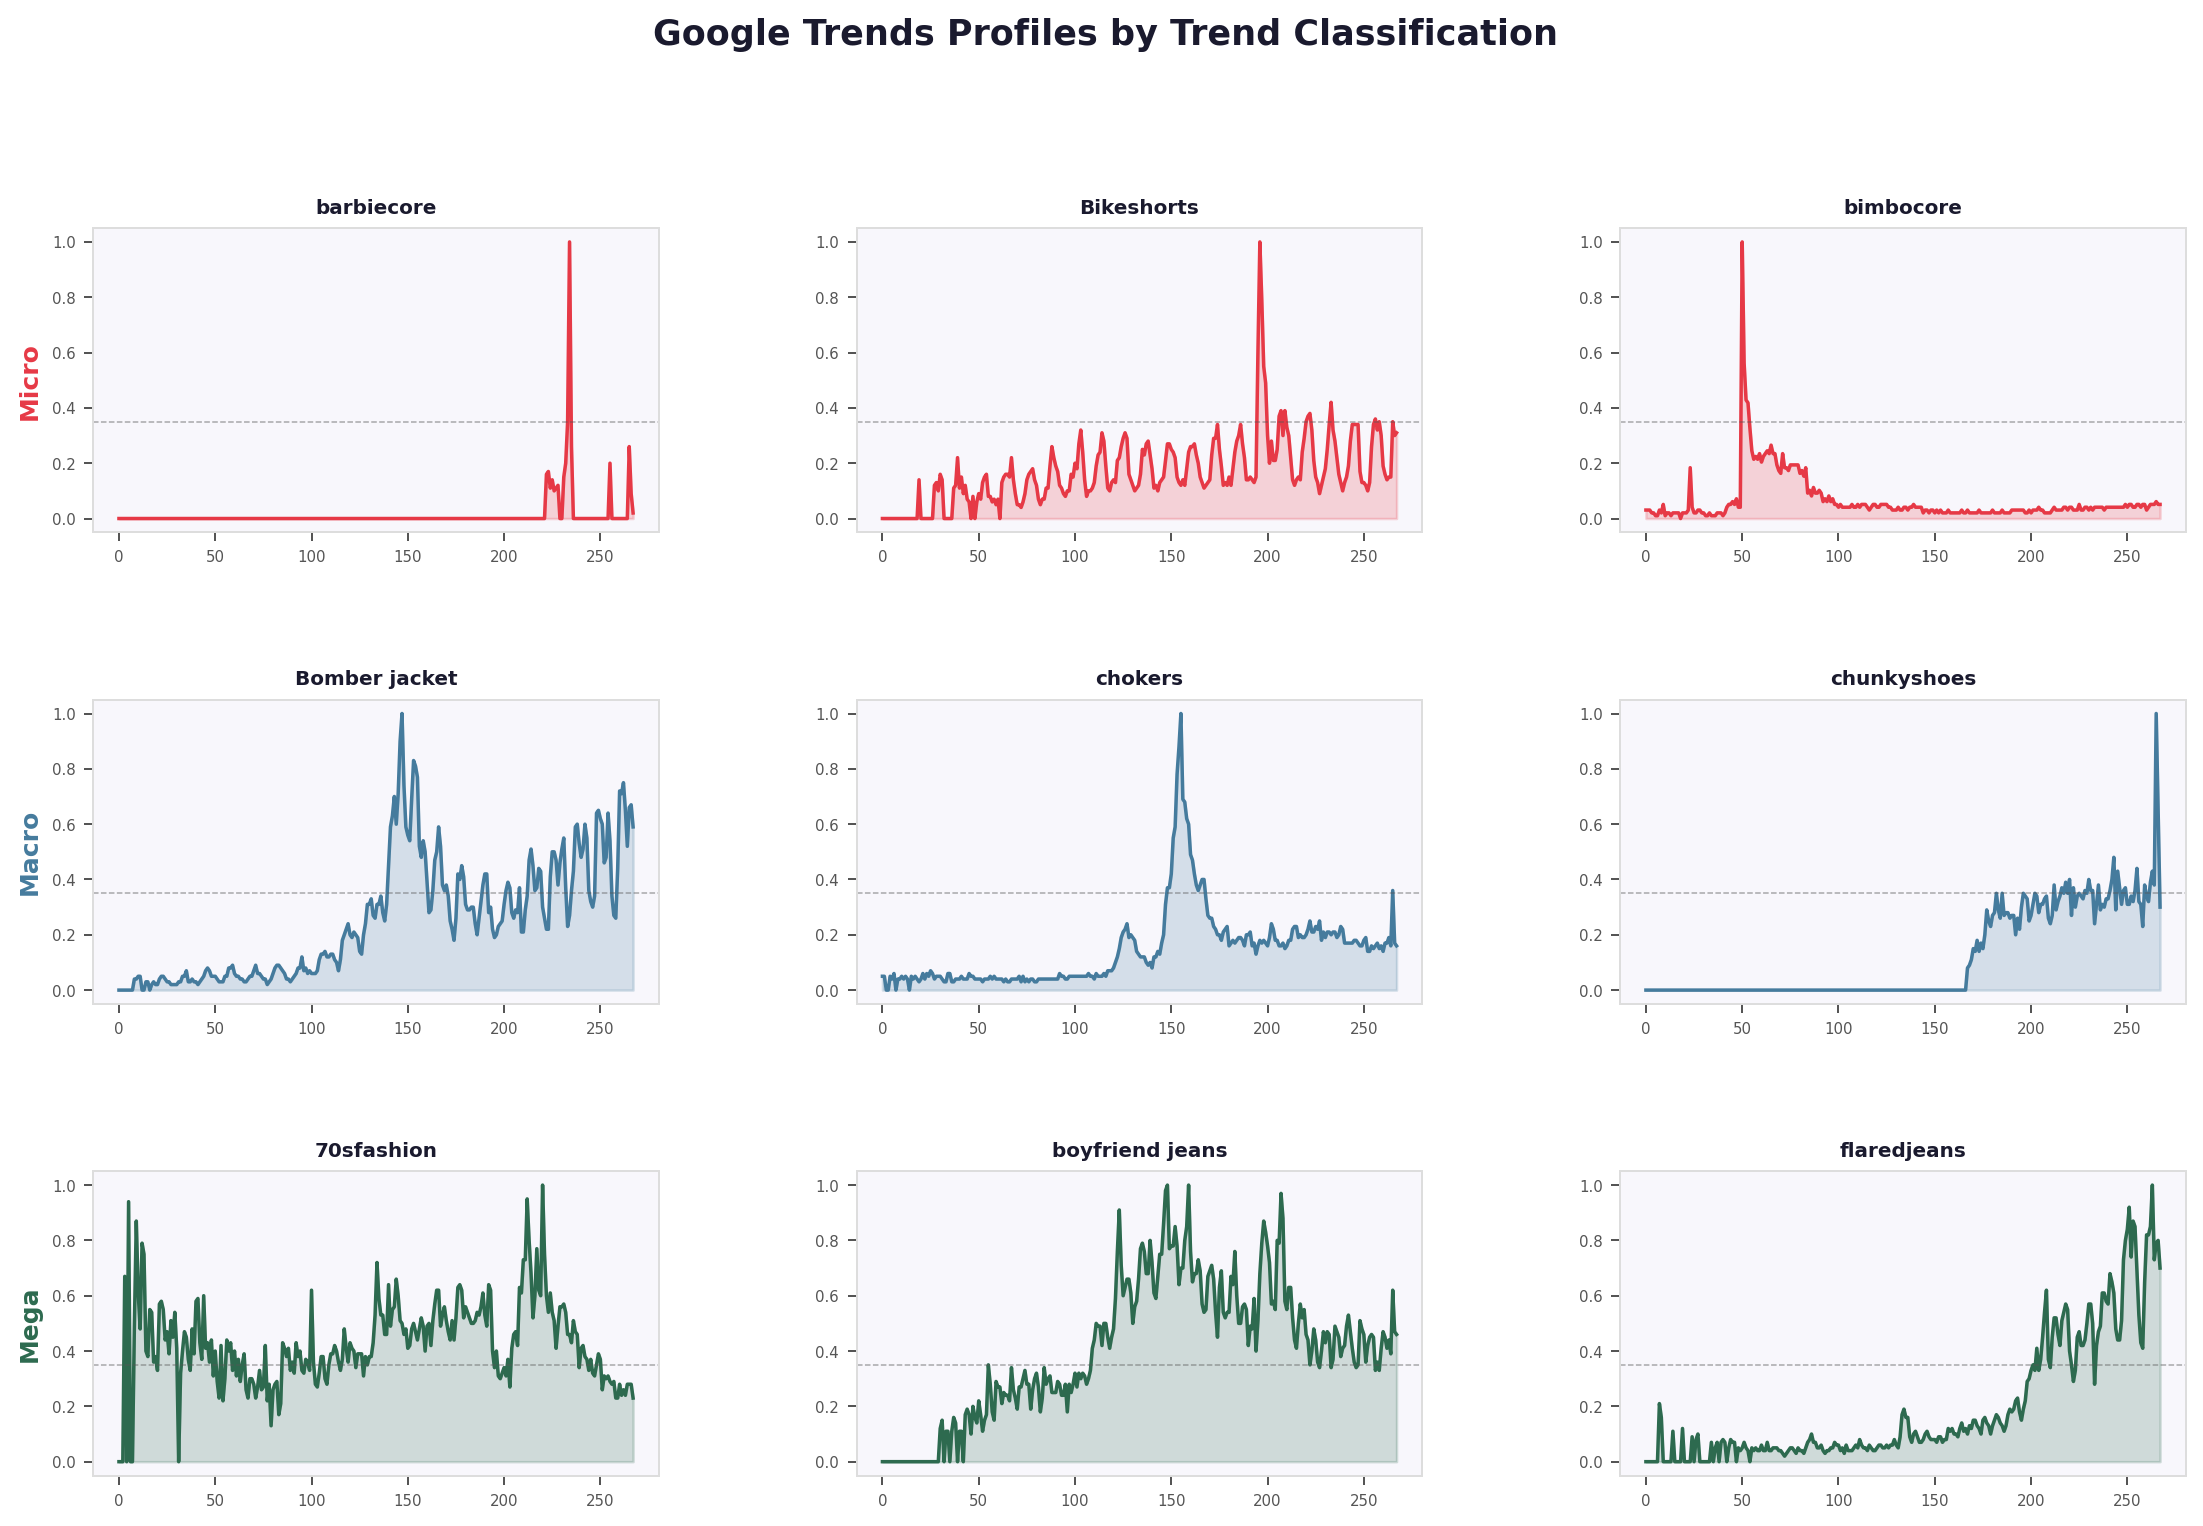
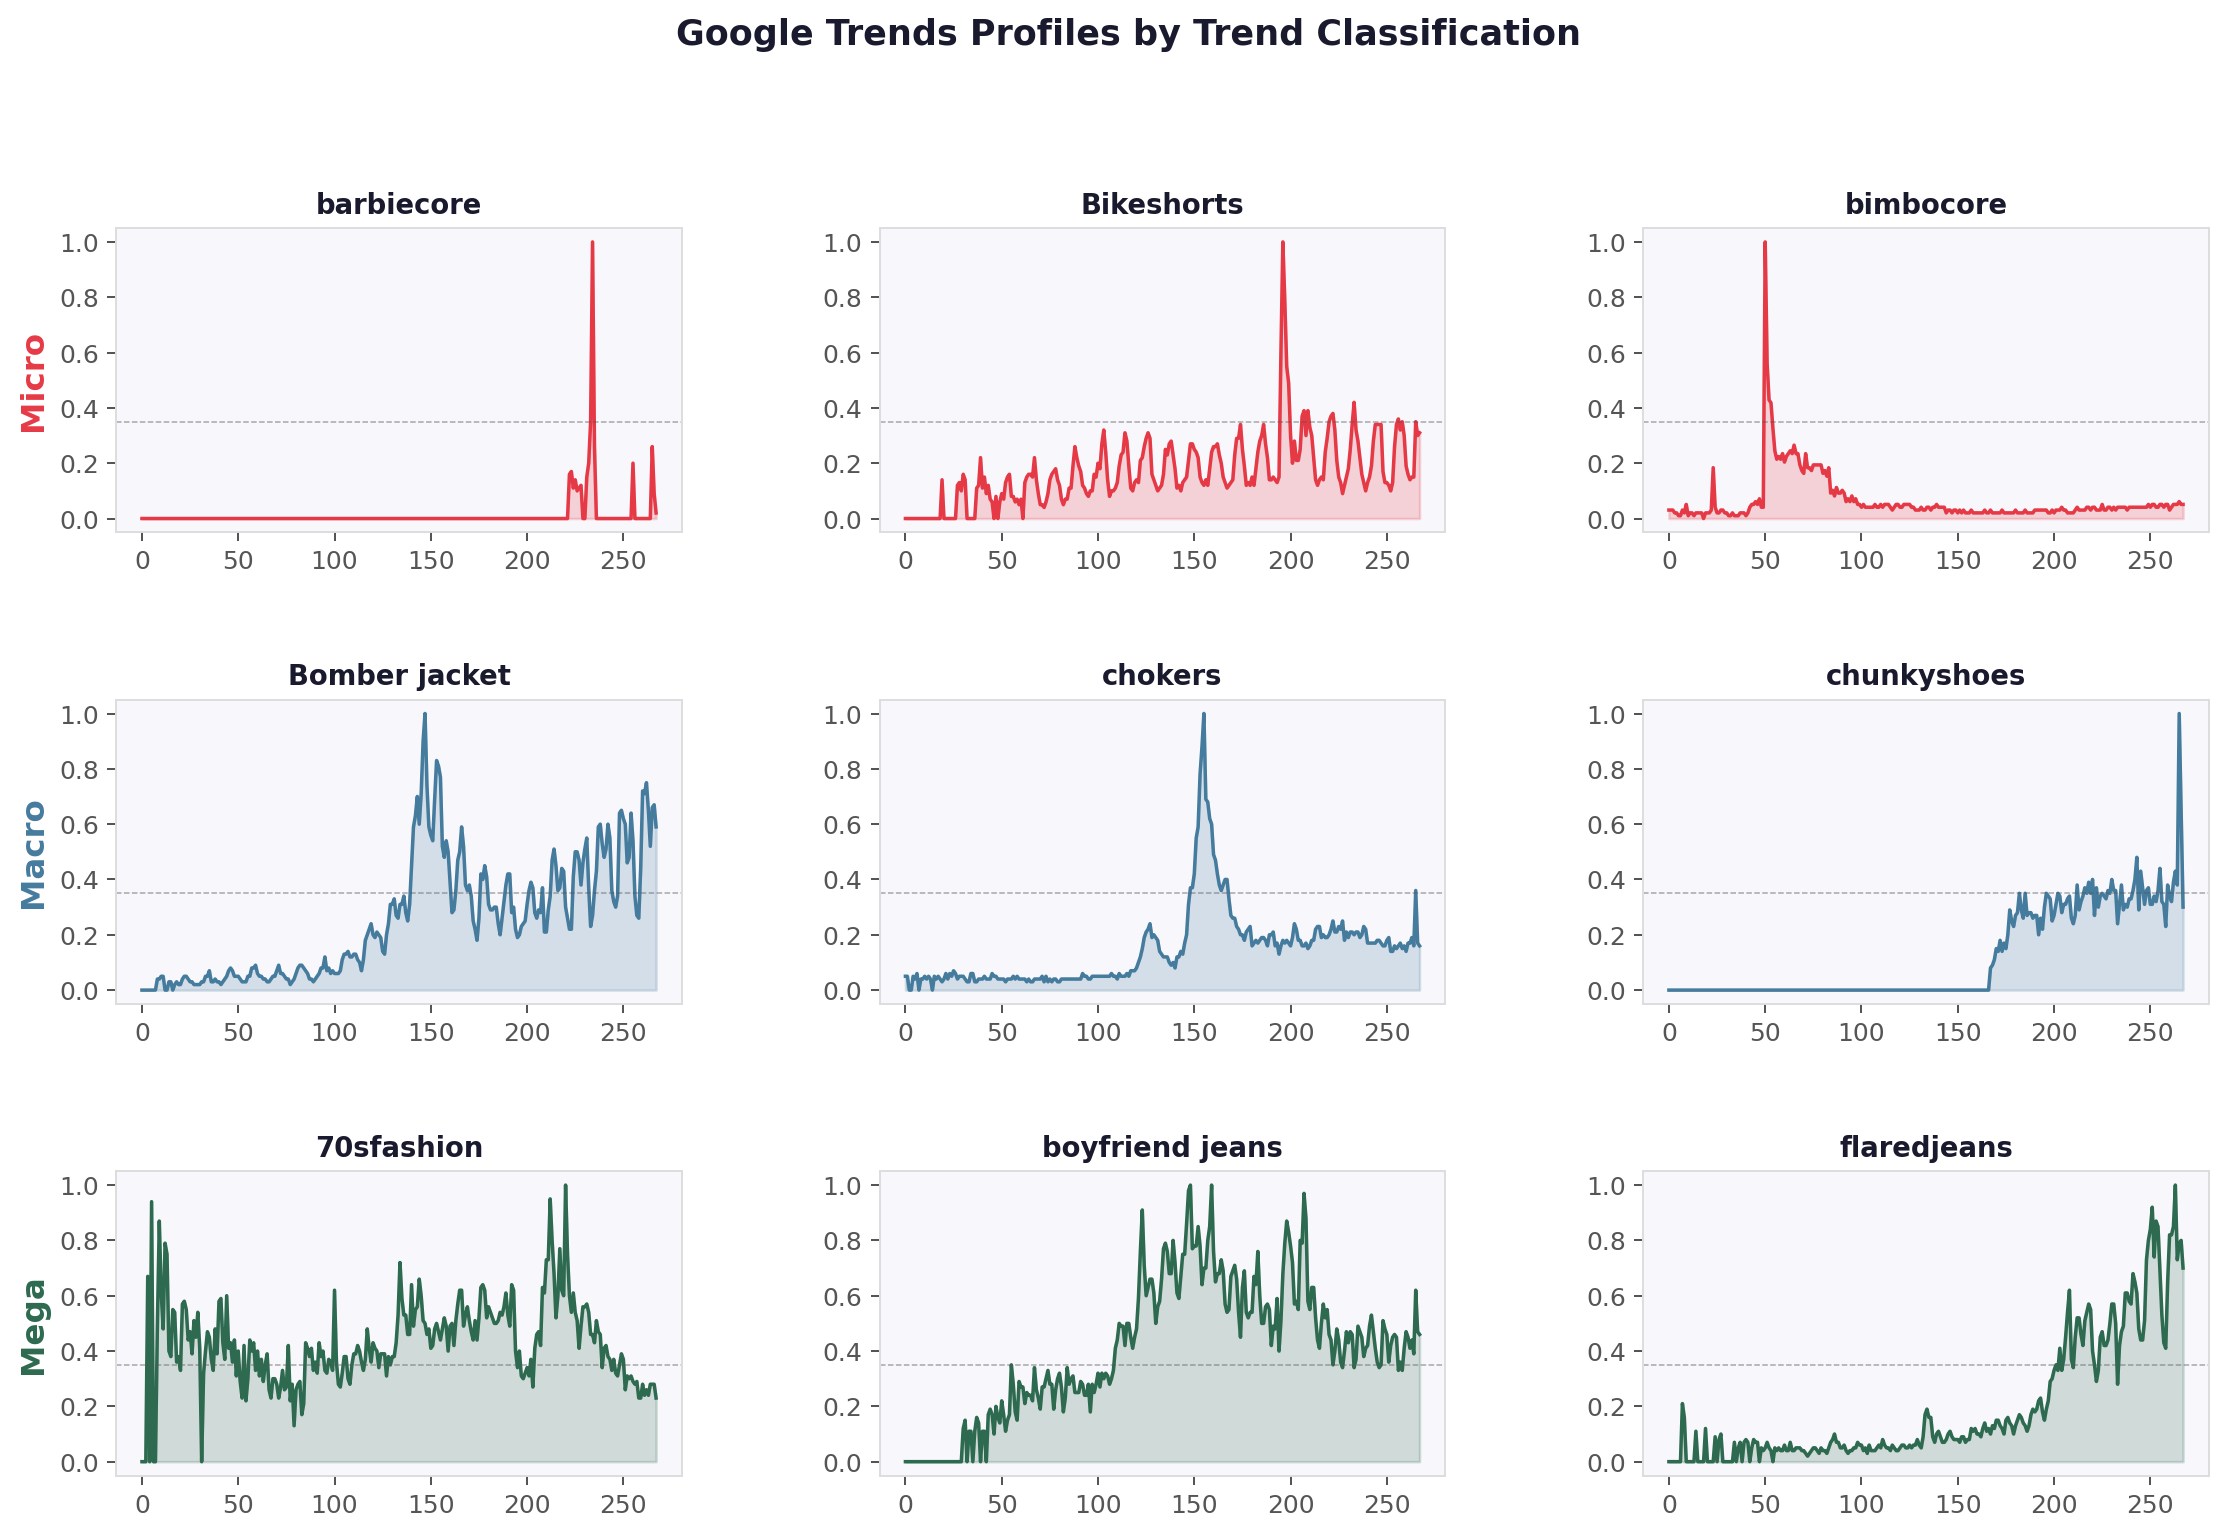
font size increase

diff --git a/trend_classification_final.py b/trend_classification_final.py
@@ -11,10 +11,6 @@ Bias fixes vs previous versions:
   - Feature selection runs INSIDE the cross-validation loop (no leakage)
   - Labels never seen during feature extraction
   - Held-out test set (9 trends) completely withheld until final evaluation
-
-USAGE:
-  pip install scikit-learn umap-learn matplotlib scipy pandas xgboost
-  python trend_classifier.py
 """
 
 import os
@@ -584,12 +580,14 @@ PURPLE_L  = "#9B7EC8"
 def _style_ax(ax):
     """Apply consistent light theme to an axes."""
     ax.set_facecolor(PANEL_BG)
-    ax.tick_params(colors=TEXT_MID, labelsize=9)
+    ax.tick_params(colors=TEXT_MID, labelsize=14)
     for spine in ax.spines.values():
         spine.set_edgecolor(SPINE_COL)
         spine.set_linewidth(0.8)
     ax.xaxis.label.set_color(TEXT_MID)
     ax.yaxis.label.set_color(TEXT_MID)
+    ax.xaxis.label.set_size(14)
+    ax.yaxis.label.set_size(14)
 
 
 def _plot_model_comparison(cv_results, test_results):
@@ -610,15 +608,15 @@ def _plot_model_comparison(cv_results, test_results):
         for bar, acc in zip(bars, accs):
             ax.text(bar.get_width() + 0.5,
                     bar.get_y() + bar.get_height() / 2,
-                    f"{acc:.1f}%", va="center", color=TEXT_DARK, fontsize=9)
+                    f"{acc:.1f}%", va="center", color=TEXT_DARK, fontsize=14)
         ax.set_xlim(0, 115)
-        ax.set_xlabel("Accuracy (%)", color=TEXT_MID)
-        ax.set_title(title, color=TEXT_DARK, fontsize=12, fontweight="bold", pad=10)
+        ax.set_xlabel("Accuracy (%)", color=TEXT_MID, fontsize=14)
+        ax.set_title(title, color=TEXT_DARK, fontsize=16, fontweight="bold", pad=10)
         ax.axvline(80, color=SPINE_COL, linestyle="--", linewidth=1)
-        ax.tick_params(colors=TEXT_MID)
+        ax.tick_params(colors=TEXT_MID, labelsize=14)
 
-    fig.suptitle("Classifier Performance — Model Comparison",
-                 color=TEXT_DARK, fontsize=14, fontweight="bold", y=1.02)
+    fig.suptitle("Classifier Performance - Model Comparison",
+                 color=TEXT_DARK, fontsize=18, fontweight="bold", y=1.02)
     plt.tight_layout()
     path = os.path.join(OUT, "model_comparison.png")
     plt.savefig(path, dpi=180, bbox_inches="tight", facecolor=BG)
@@ -627,20 +625,22 @@ def _plot_model_comparison(cv_results, test_results):
 
 
 def _plot_confusion(y_true, y_pred, model_name, acc):
-    fig, ax = plt.subplots(figsize=(6, 5))
+    fig, ax = plt.subplots(figsize=(7, 6))
     fig.patch.set_facecolor(BG)
     _style_ax(ax)
     cm   = confusion_matrix(y_true, y_pred, labels=LABEL_ORDER)
     disp = ConfusionMatrixDisplay(cm, display_labels=LABEL_ORDER)
     disp.plot(ax=ax, colorbar=False, cmap="RdPu")
-    ax.set_title(f"Classification Results — {model_name}  ({acc:.1%} accuracy)",
-                 color=TEXT_DARK, fontsize=11, fontweight="bold", pad=10)
-    ax.tick_params(colors=TEXT_MID)
+    ax.set_title(f"Classification Results - {model_name}  ({acc:.1%} accuracy)",
+                 color=TEXT_DARK, fontsize=14, fontweight="bold", pad=10)
+    ax.tick_params(colors=TEXT_MID, labelsize=14)
     ax.xaxis.label.set_color(TEXT_MID)
+    ax.xaxis.label.set_size(14)
     ax.yaxis.label.set_color(TEXT_MID)
+    ax.yaxis.label.set_size(14)
     for text in ax.texts:
         text.set_color(TEXT_DARK)
-        text.set_fontsize(13)
+        text.set_fontsize(16)
     plt.tight_layout()
     path = os.path.join(OUT, "confusion_matrix.png")
     plt.savefig(path, dpi=180, bbox_inches="tight", facecolor=BG)
@@ -650,16 +650,16 @@ def _plot_confusion(y_true, y_pred, model_name, acc):
 
 def _plot_feature_importance(importances, model_name="Best Model"):
     top = importances.head(20).sort_values(ascending=True)
-    fig, ax = plt.subplots(figsize=(9, 6))
+    fig, ax = plt.subplots(figsize=(11, 8))
     fig.patch.set_facecolor(BG)
     _style_ax(ax)
     med     = top.median()
     colours = [PURPLE if v > med else PURPLE_L for v in top.values]
     ax.barh(top.index, top.values, color=colours, alpha=0.88)
-    ax.set_xlabel("Mean decrease in impurity", color=TEXT_MID)
+    ax.set_xlabel("Mean decrease in impurity", color=TEXT_MID, fontsize=14)
     ax.set_title(f"Most Predictive Features for Trend Classification ({model_name})",
-                 color=TEXT_DARK, fontsize=12, fontweight="bold", pad=10)
-    ax.tick_params(colors=TEXT_MID, labelsize=9)
+                 color=TEXT_DARK, fontsize=14, fontweight="bold", pad=10)
+    ax.tick_params(colors=TEXT_MID, labelsize=13)
     plt.tight_layout()
     path = os.path.join(OUT, "feature_importances.png")
     plt.savefig(path, dpi=180, bbox_inches="tight", facecolor=BG)
@@ -685,15 +685,15 @@ def _plot_per_trend_results(X_test, y_test, y_pred, model_name):
             color=bar_cols, alpha=0.88)
 
     for i, (_, row) in enumerate(results.iterrows()):
-        label = "✓  Correct" if row["correct"] else f"✗  Predicted: {row['pred']}"
+        label = "Correct" if row["correct"] else f"Predicted: {row['pred']}"
         col   = TEXT_DARK if row["correct"] else "#cc3333"
-        ax.text(0.02, i, label, va="center", color=col, fontsize=9)
+        ax.text(0.02, i, label, va="center", color=col, fontsize=13)
 
     ax.set_xlim(0, 1.6)
-    ax.set_xlabel("Correct / Incorrect", color=TEXT_MID)
-    ax.set_title(f"Per-Trend Classification Results — {model_name}  (Held-Out Test Set)",
-                 color=TEXT_DARK, fontsize=12, fontweight="bold", pad=10)
-    ax.tick_params(colors=TEXT_MID, labelsize=9)
+    ax.set_xlabel("Correct / Incorrect", color=TEXT_MID, fontsize=14)
+    ax.set_title(f"Per-Trend Classification Results - {model_name}  (Held-Out Test Set)",
+                 color=TEXT_DARK, fontsize=14, fontweight="bold", pad=10)
+    ax.tick_params(colors=TEXT_MID, labelsize=13)
     plt.tight_layout()
     path = os.path.join(OUT, "per_trend_results.png")
     plt.savefig(path, dpi=180, bbox_inches="tight", facecolor=BG)
@@ -718,11 +718,11 @@ def plot_time_series_gallery(series_dict, y):
             ax.plot(v, color=COLOURS[label], linewidth=1.4)
             ax.axhline(THRESHOLD, color=TEXT_MID, linewidth=0.6,
                        linestyle="--", alpha=0.5)
-            ax.set_title(name, color=TEXT_DARK, fontsize=8, fontweight="bold")
+            ax.set_title(name, color=TEXT_DARK, fontsize=11, fontweight="bold")
             if col == 0:
                 ax.set_ylabel(label, color=COLOURS[label],
-                              fontsize=10, fontweight="bold")
-            ax.tick_params(colors=TEXT_MID, labelsize=6)
+                              fontsize=13, fontweight="bold")
+            ax.tick_params(colors=TEXT_MID, labelsize=10)
             ax.set_ylim(-0.05, 1.05)
             for spine in ax.spines.values():
                 spine.set_edgecolor(SPINE_COL)
@@ -755,13 +755,13 @@ def path2_plot(X, y_true, cluster_ids, coords):
                         edgecolors="white", linewidths=0.5)
         for xi, yi, nm in zip(coords[mask, 0], coords[mask, 1],
                                np.array(X.index)[mask]):
-            axes[0].annotate(nm, (xi, yi), fontsize=5.5, color=TEXT_MID,
+            axes[0].annotate(nm, (xi, yi), fontsize=8, color=TEXT_MID,
                              alpha=0.85, ha="center", va="bottom")
 
-    axes[0].set_title("Blind Clustering — No Labels Used",
-                      color=TEXT_DARK, fontsize=12, fontweight="bold", pad=12)
+    axes[0].set_title("Blind Clustering - No Labels Used",
+                      color=TEXT_DARK, fontsize=15, fontweight="bold", pad=12)
     axes[0].legend(labelcolor=TEXT_DARK, facecolor=BG,
-                   edgecolor=SPINE_COL, fontsize=9)
+                   edgecolor=SPINE_COL, fontsize=13)
 
     # Right: true labels
     for lbl in LABEL_ORDER:
@@ -771,16 +771,16 @@ def path2_plot(X, y_true, cluster_ids, coords):
                         edgecolors="white", linewidths=0.5)
         for xi, yi, nm in zip(coords[mask, 0], coords[mask, 1],
                                np.array(X.index)[mask]):
-            axes[1].annotate(nm, (xi, yi), fontsize=5.5, color=TEXT_MID,
+            axes[1].annotate(nm, (xi, yi), fontsize=8, color=TEXT_MID,
                              alpha=0.85, ha="center", va="bottom")
 
     axes[1].set_title("Micro / Macro / Mega Classifications",
-                      color=TEXT_DARK, fontsize=12, fontweight="bold", pad=12)
+                      color=TEXT_DARK, fontsize=15, fontweight="bold", pad=12)
     axes[1].legend(labelcolor=TEXT_DARK, facecolor=BG,
-                   edgecolor=SPINE_COL, fontsize=9)
+                   edgecolor=SPINE_COL, fontsize=13)
 
     fig.suptitle("Do Blind Clusters Match the Trend Classifications?",
-                 color=TEXT_DARK, fontsize=14, fontweight="bold", y=1.01)
+                 color=TEXT_DARK, fontsize=18, fontweight="bold", y=1.01)
     plt.tight_layout()
     path = os.path.join(OUT, "umap_clustering.png")
     plt.savefig(path, dpi=180, bbox_inches="tight", facecolor=BG)
